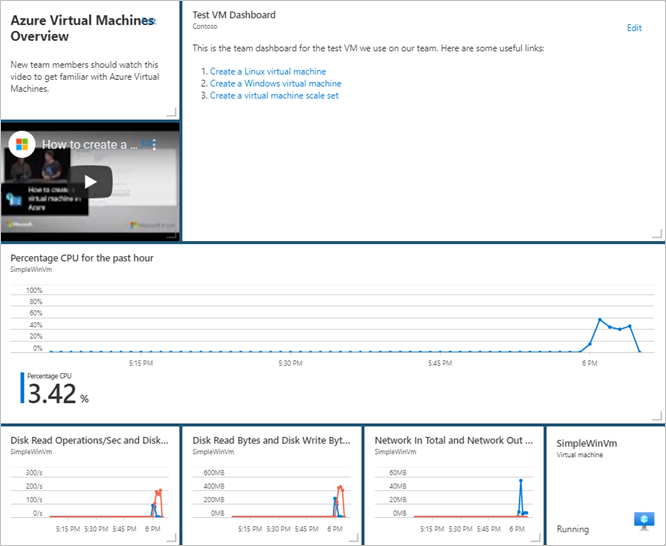
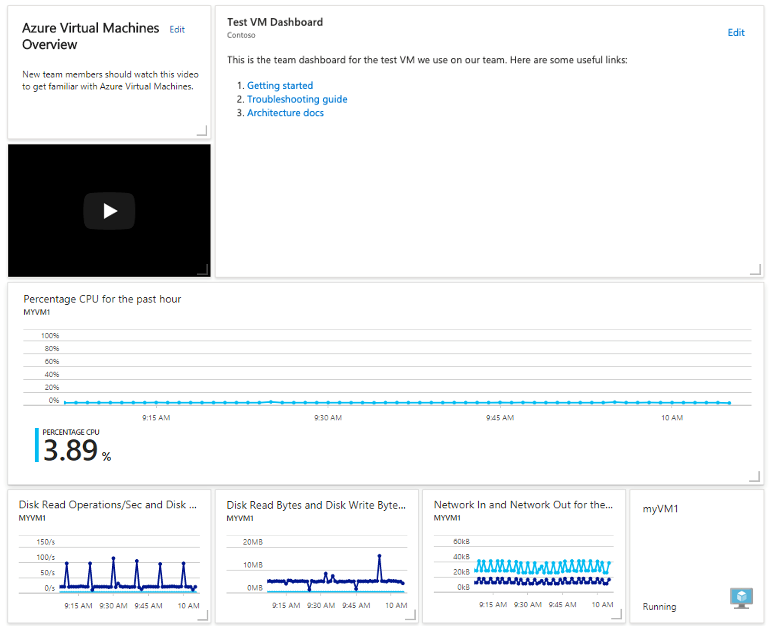
review and refresh quickstart

Changed region(s): [[0.0, 0.0, 1.0, 1.0], [0.9309, 0.0311, 0.961, 0.0623]]

diff --git a/articles/azure-portal/quickstart-portal-dashboard-azure-cli.md b/articles/azure-portal/quickstart-portal-dashboard-azure-cli.md
@@ -3,67 +3,56 @@ title: Create an Azure portal dashboard with Azure CLI
 description: "Quickstart: Learn how to create a dashboard in the Azure portal using the Azure CLI. A dashboard is a focused and organized view of your cloud resources."
 ms.topic: quickstart
 ms.custom: devx-track-azurepowershell, devx-track-azurecli, mode-api
-ms.date: 12/4/2020
+ms.date: 01/13/2022
 ---
 
 # Quickstart: Create an Azure portal dashboard with Azure CLI
 
-A dashboard in the Azure portal is a focused and organized view of your cloud resources. This
-article focuses on the process of using Azure CLI to create a dashboard.
-The dashboard shows the performance of a virtual machine (VM), as well as some static information
-and links.
-
+A dashboard in the Azure portal is a focused and organized view of your cloud resources. This article shows you how to use Azure CLI to create a dashboard. In this example, the dashboard shows the performance of a virtual machine (VM), as well as some static information and links.
 
 [!INCLUDE [azure-cli-prepare-your-environment.md](../../includes/azure-cli-prepare-your-environment.md)]
 
 - If you have multiple Azure subscriptions, choose the appropriate subscription in which to bill the resources.
-Select a subscription by using the [az account set](/cli/azure/account#az_account_set) command:
+Select a subscription by using the [az account set](/cli/azure/account#az-account-set) command:
 
   ```azurecli
   az account set --subscription 00000000-0000-0000-0000-000000000000
   ```
 
-- Create an [Azure resource group](../azure-resource-manager/management/overview.md) by using the [az group create](/cli/azure/group#az_group_create) command or use an existing resource group:
+- Create an [Azure resource group](../azure-resource-manager/management/overview.md#resource-groups) by using the [az group create](/cli/azure/group#az-group-create) command (or use an existing resource group):
 
   ```azurecli
   az group create --name myResourceGroup --location centralus
   ```
 
-   A resource group is a logical container in which Azure resources are deployed and managed as a group.
-
 ## Create a virtual machine
 
-Create a virtual machine by using the [az vm create](/cli/azure/vm#az_vm_create) command:
+Create a virtual machine by using the [az vm create](/cli/azure/vm#az-vm-create) command:
 
 ```azurecli
-az vm create --resource-group myResourceGroup --name SimpleWinVM --image win2016datacenter \
+az vm create --resource-group myResourceGroup --name myVM1 --image win2016datacenter \
    --admin-username azureuser --admin-password 1StrongPassword$
 ```
 
 > [!Note]
-> The password must be complex.
-> This is a new user name and password.
-> It's not, for example, the account you use to sign in to Azure.
-> For more information, see [username requirements](../virtual-machines/windows/faq.yml#what-are-the-username-requirements-when-creating-a-vm-)
+> This is a new username and password (not the account you use to sign in to Azure). The password must be complex. For more information, see [username requirements](../virtual-machines/windows/faq.yml#what-are-the-username-requirements-when-creating-a-vm-)
 and [password requirements](../virtual-machines/windows/faq.yml#what-are-the-password-requirements-when-creating-a-vm-).
 
 The deployment starts and typically takes a few minutes to complete.
-After deployment completes, move on to the next section.
 
 ## Download the dashboard template
 
-Since Azure dashboards are resources, they can be represented as JSON.
-For more information, see [The structure of Azure Dashboards](./azure-portal-dashboards-structure.md).
+Since Azure dashboards are resources, they can be represented as JSON. For more information, see [The structure of Azure dashboards](./azure-portal-dashboards-structure.md).
 
-Download the following file: [portal-dashboard-template-testvm.json](https://raw.githubusercontent.com/Azure/azure-docs-powershell-samples/master/azure-portal/portal-dashboard-template-testvm.json).
+Download the file [portal-dashboard-template-testvm.json](https://raw.githubusercontent.com/Azure/azure-docs-powershell-samples/master/azure-portal/portal-dashboard-template-testvm.json).
 
-Customize the downloaded template by changing the following values to your values:
+Then, customize the downloaded template file by changing the following to your values:
 
-* `<subscriptionID>`: Your subscription
-* `<rgName>`: Resource group, for example `myResourceGroup`
-* `<vmName>`: Virtual machine name, for example `SimpleWinVM`
-* `<dashboardTitle>`: Dashboard title, for example `Simple VM Dashboard`
-* `<location>`: Your Azure region, for example, `centralus`
+- `<subscriptionID>`: Your subscription
+- `<rgName>`: Resource group, for example `myResourceGroup`
+- `<vmName>`: Virtual machine name, for example `myVM1`
+- `<dashboardTitle>`: Dashboard title, for example `Simple VM Dashboard`
+- `<location>`: Your Azure region, for example `centralus`
 
 For more information, see [Microsoft portal dashboards template reference](/azure/templates/microsoft.portal/dashboards).
 
@@ -71,37 +60,39 @@ For more information, see [Microsoft portal dashboards template reference](/azur
 
 You can now deploy the template from within Azure CLI.
 
-1. Run the [az portal dashboard create](/cli/azure/portal/dashboard#az_portal_dashboard_create) command to deploy the template:
+1. Run the [az portal dashboard create](/cli/azure/portal/dashboard#az-portal-dashboard-create) command to deploy the template:
 
    ```azurecli
    az portal dashboard create --resource-group myResourceGroup --name 'Simple VM Dashboard' \
       --input-path portal-dashboard-template-testvm.json --location centralus
    ```
 
-1. Check that the dashboard was created successfully by running the [az portal dashboard show](/cli/azure/portal/dashboard#az_portal_dashboard_show) command:
+1. Check that the dashboard was created successfully by running the [az portal dashboard show](/cli/azure/portal/dashboard#az-portal-dashboard-show) command:
 
    ```azurecli
    az portal dashboard show --resource-group myResourceGroup --name 'Simple VM Dashboard'
    ```
 
-To see all the dashboards for the current subscription, use [az portal dashboard list](/cli/azure/portal/dashboard#az_portal_dashboard_list):
+To see all the dashboards for the current subscription, use [az portal dashboard list](/cli/azure/portal/dashboard#az-portal-dashboard-list):
 
 ```azurecli
 az portal dashboard list
 ```
 
-You can also see all the dashboards for a resource group:
+You can also see all the dashboards for a specific resource group:
 
 ```azurecli
 az portal dashboard list --resource-group myResourceGroup
 ```
 
-You can update a dashboard by using the [az portal dashboard update](/cli/azure/portal/dashboard#az_portal_dashboard_update) command:
+To update a dashboard, use the [az portal dashboard update](/cli/azure/portal/dashboard#az-portal-dashboard-update) command:
 
 ```azurecli
 az portal dashboard update --resource-group myResourceGroup --name 'Simple VM Dashboard' \
    --input-path portal-dashboard-template-testvm.json --location centralus
 ```
+
+## Review deployed resources
 
 [!INCLUDE [azure-portal-review-deployed-resources](../../includes/azure-portal-review-deployed-resources.md)]
 
@@ -125,4 +116,7 @@ az portal dashboard delete --resource-group myResourceGroup --name "Simple VM Da
 
 ## Next steps
 
-For more information about Azure CLI support for dashboards, see [az portal dashboard](/cli/azure/portal/dashboard).
+For more information about Azure CLI commands for dashboards, see:
+
+> [!div class="nextstepaction"]
+> [Azure CLI: az portal dashboard](/cli/azure/portal/dashboard).

diff --git a/includes/azure-portal-review-deployed-resources.md b/includes/azure-portal-review-deployed-resources.md
@@ -1,23 +1,23 @@
 ---
 title: "include file"
 description: "include file"
-author: mgblythe
+author: JnHs
 ms.service: azure-portal
 ms.topic: "include"
-ms.date: 03/12/2021
-ms.author: mblythe
+ms.date: 01/13/2022
+ms.author: jenhayes
 ---
 
-Verify that you can see data about the virtual machine from within the Azure portal dashboard.
+Verify that you can see data about your virtual machine in the Azure portal dashboard.
 
-1. In the Azure portal, select **Dashboard**.
+1. In the Azure portal menu, select **Dashboard**.
 
-    :::image type="content" source="media/azure-portal-review-deployed-resources/navigate-to-dashboards.png" alt-text="Azure portal navigation to dashboard":::
+    :::image type="content" source="media/azure-portal-review-deployed-resources/navigate-to-dashboards.png" alt-text="Screenshot of the Dashboard item on the Azure portal menu.":::
 
 1. On the dashboard page, select **Simple VM Dashboard**.
 
-    :::image type="content" source="media/azure-portal-review-deployed-resources/select-simple-vm-dashboard.png" alt-text="Navigate to Simple VM Dashboard":::
+    :::image type="content" source="media/azure-portal-review-deployed-resources/select-simple-vm-dashboard.png" alt-text="Screenshot of the dashboard selection option in the Azure portal.":::
 
-1. Review the dashboard that the Azure Resource Manager template (ARM template) created. You can see that some of the content is static, but there are also charts that show the performance of the VM you created at the beginning.
+1. Review the dashboard, which should look similar to the one shown here. While some of the content is static, there are also charts that show the performance of the VM you created at the beginning.
 
-    :::image type="content" source="media/azure-portal-review-deployed-resources/review-simple-vm-dashboard.png" alt-text="Review Simple VM Dashboard":::
+    :::image type="content" source="media/azure-portal-review-deployed-resources/review-simple-vm-dashboard.png" alt-text="Screenshot of an example dashboard in the Azure portal.":::

diff --git a/articles/azure-portal/quick-create-template.md b/articles/azure-portal/quick-create-template.md
@@ -3,7 +3,7 @@ title: Create an Azure portal dashboard by using an Azure Resource Manager templ
 description: Learn how to create an Azure portal dashboard by using an Azure Resource Manager template.
 ms.topic: quickstart
 ms.custom: subject-armqs, mode-arm
-ms.date: 03/15/2021
+ms.date: 01/13/2022
 ---
 
 # Quickstart: Create a dashboard in the Azure portal by using an ARM template
@@ -46,7 +46,7 @@ The dashboard you create in the next part of this quickstart requires an existin
     ```powershell
     New-AzVm `
         -ResourceGroupName "SimpleWinVmResourceGroup" `
-        -Name "SimpleWinVm" `
+        -Name "myVM1" `
         -Location "East US" 
     ```
 
@@ -70,11 +70,11 @@ The template used in this quickstart is from [Azure Quickstart Templates](https:
 
     Unless it's specified, use the default values to create the dashboard.
 
-    * **Subscription**: select an Azure subscription.
-    * **Resource group**: select **SimpleWinVmResourceGroup**.
-    * **Location**: select **East US**.
-    * **Virtual Machine Name**: enter **SimpleWinVm**.
-    * **Virtual Machine Resource Group**: enter **SimpleWinVmResourceGroup**.
+    - **Subscription**: select an Azure subscription.
+    - **Resource group**: select **SimpleWinVmResourceGroup**.
+    - **Location**: select **East US**.
+    - **Virtual Machine Name**: enter **myVM1**.
+    - **Virtual Machine Resource Group**: enter **SimpleWinVmResourceGroup**.
 
 1. Select **Create** or **Purchase**. After the dashboard has been deployed successfully, you get a notification:
 

diff --git a/articles/azure-portal/quickstart-portal-dashboard-powershell.md b/articles/azure-portal/quickstart-portal-dashboard-powershell.md
@@ -3,7 +3,7 @@ title: Create an Azure portal dashboard with PowerShell
 description: Learn how to create a dashboard in the Azure portal using Azure PowerShell.
 ms.topic: quickstart
 ms.custom: devx-track-azurepowershell, mode-api
-ms.date: 03/25/2021
+ms.date: 01/13/2022
 ---
 
 # Quickstart: Create an Azure portal dashboard with PowerShell
@@ -67,7 +67,7 @@ $dashboardName = $dashboardTitle -replace '\s'
 $subscriptionID = (Get-AzContext).Subscription.Id
 
 # Name of test VM
-$vmName = 'SimpleWinVM'
+$vmName = 'myVM1'
 ```
 
 ## Create a resource group

diff --git a/articles/azure-portal/azure-portal-markdown-tile.md b/articles/azure-portal/azure-portal-markdown-tile.md
@@ -14,7 +14,6 @@ You can add a markdown tile to your Azure dashboards to display custom, static c
 
 1. Select **Dashboard** from the Azure portal menu.
 
-
 1. In the dashboard view, select the dashboard where the custom markdown tile should appear, then select **Edit**.
 
    ![Screenshot showing dashboard edit view](./media/azure-portal-markdown-tile/azure-portal-dashboard-edit.png)
